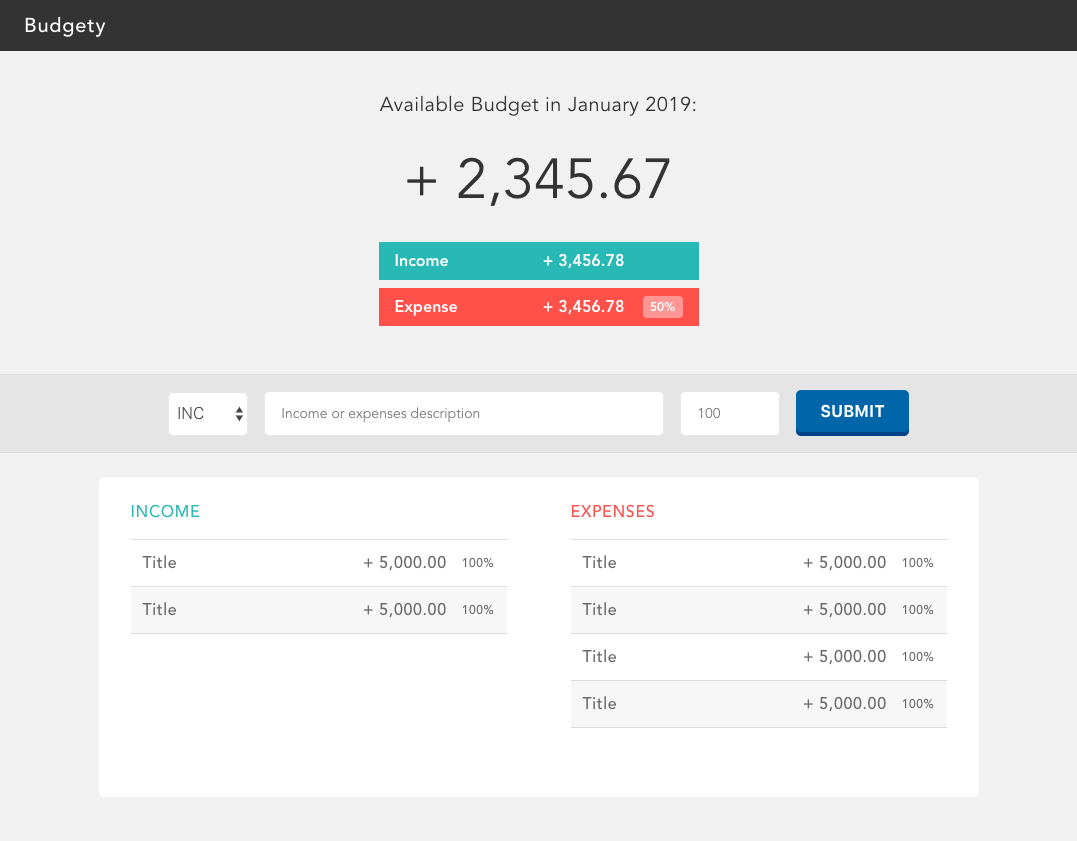
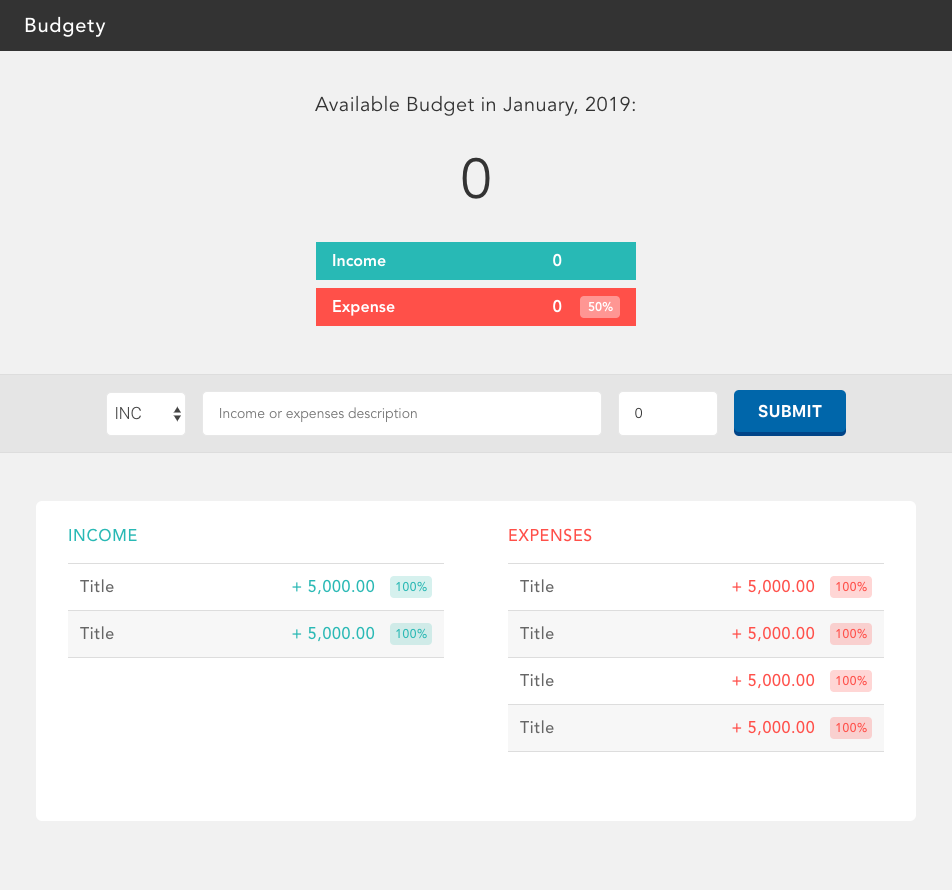
フィルタをグローバルに変更

diff --git a/docs/page7.md b/docs/page7.md
@@ -70,7 +70,6 @@ export default {
 
 > `filters`と複数形な事に気を付けてください。  
 > `Filter`は制限として`this`にアクセスする事が出来ません。  
-> グローバルなFilterも作れますが、今回は時間の都合上説明を割愛します。
 
 #### 9-2-2. Filterの使い方
 登録した`Filter`はマスタッシュまたは`v-bind`ディレクティブの値にパイプ`|`でフィルタ名をつなげる事で呼び出します。
@@ -88,8 +87,42 @@ export default {
 ```
 
 さて、Filterの使い方も分かったところでバランスの値を改善しましょう。  
-`expenses`のパーセンテージも静的なままなので、これを動的に表示出来るように合わせて処理を追加します。  
-`top.vue`を以下の様に編集してください。
+`expenses`のパーセンテージも静的なままなので、これを動的に表示出来るように合わせて処理を追加します。
+  
+`top.vue`にローカルフィルタとして登録しても良いのですが、今回のフィルタは汎用的に使えそうです。  
+そこでどのコンポーネントからも使えるようにグローバルなフィルタとして登録します。  
+
+`main.js`を開き、以下の様に編集してください。
+
+```javascript
+import Vue from 'vue'
+import App from './App.vue'
+
+Vue.config.productionTip = false
+
+Vue.filter('balanceFormatter', val => {
+  const splitVal = Math.abs(val).toFixed(2).split('.')
+  if (val < 0) {
+    return `- ${Number(splitVal[0]).toLocaleString()}.${splitVal[1]}`
+  } else if (val === 0) {
+    return '0.00'
+  } else {
+    return `+ ${Number(splitVal[0]).toLocaleString()}.${splitVal[1]}`
+  }
+})
+
+new Vue({
+  render: h => h(App),
+}).$mount('#app')
+```
+
+グローバルなフィルタを登録するには`Vue.filter()`を用います。  
+`Vue.filter()`のパラメータは以下の通りです。
+```javascript
+Vue.filter('filter-name', callback)
+```
+
+　続いて`top.vue`を以下の様に編集してください。
 
 ```vue
 <template>
@@ -128,18 +161,12 @@ export default {
             }
         },
         // フィルタを登録する
-        filters: {
-            balanceFormatter(val) {
-                const splitVal = Math.abs(val).toFixed(2).split('.')
-                if (val < 0) {
-                    return `- ${Number(splitVal[0]).toLocaleString()}.${splitVal[1]}`
-                } else if (val === 0) {
-                    return '0.00'
-                } else {
-                    return `+ ${Number(splitVal[0]).toLocaleString()}.${splitVal[1]}`
-                }
-            }
-        }
+        // 今回はグローバルに登録するのでローカルは使わない。
+        // filters: {
+        //     filterFunction() {
+        //         do something
+        //     }
+        //}
     }
 </script>
 ```

diff --git a/docs/page8.md b/docs/page8.md
@@ -12,11 +12,11 @@ Bugdetyの作業もいよいよ大詰めになってきました。
 ここは復習のために皆さんでやってみましょう！
 
 #### やる事
+- `main-content.vue`から`incomeTotal`,`expensesTotal`を受け渡す。
 - `main-content.vue`から`allItem`を`bottom.vue`に受け渡す。変数名は同じく`allItem`にしてください。  
 - `bottom.vue`の最後の`</ul>`( expensesのul )の閉じタグの下に下記のコードを挿入してください。
   
   ```vue
-      <!-- 時間の都合上このコードの説明は割愛します。 -->
       <div v-if="allItem.inc.length" style="font-size: 2rem;">
           {{ allItem.inc[0].desc }}: {{ allItem.inc[0].value }}
       </div>
@@ -26,7 +26,6 @@ Bugdetyの作業もいよいよ大詰めになってきました。
   ```text
   description: 100
   ```
-
 
 #### 答え
 ちょっと難しいなぁと思った方はこちらにサンプルコードを置いておきます。  
@@ -73,6 +72,38 @@ Bugdetyの作業もいよいよ大詰めになってきました。
     export default {
         components: {
             ListItem
+        }
+    }
+</script>
+<!-- 省略 -->
+```
+
+</div></details>
+　  
+
+フォームから入力したディスクリプションと値が、expensesのリスト最下部に表示されましたか？  
+確認できたら次に進みます。
+
+### 10-2. 更にデータを受け渡す
+しかしながら、本来リストの描画をするのは`list-item.vue`の役割であって、`bottom.vue`は動的に追加されるリストをまとめているに過ぎません。そこで更に`list-item.vue`にデータを受け渡します。
+`item-list.vue`を次のように編集してください。
+
+```vue
+<!-- /src/components/list-item.vue -->
+<template>
+    <li class="listItem">
+        <p class="listItem__title">{{ itemData.desc | balanceFormatter }}</p>
+        <p class="listItem__value">{{ itemData.value | balanceFormatter }}</p>
+        <p class="listItem__percentage">{{ percentage | balanceFormatter }}</p>
+    </li>
+</template>
+
+<script>
+    export default {
+        props: {
+            itemData: Object,
+            percentage: Number,
+            kind: String
         }
     }
 </script>

diff --git a/docs/page4.md b/docs/page4.md
@@ -97,22 +97,38 @@
         justify-content: space-between;
         padding: 12px;
     }
-    
+
     .listItem:nth-of-type(even) {
         background: #f7f7f7;
     }
-
+    
     .listItem__title {
         flex: 1 1 auto;
     }
-
-    .listItem__value {
     
-    }
-
     .listItem__percentage {
+        border-radius: 4px;
         font-size: 1.2rem;
         margin: 0 0 0 1.25em;
+        padding: 3px 4px 3px 5px;
+    }
+
+    .list__main.inc .listItem__value,
+    .list__main.inc .listItem__percentage {
+        color: #28B9B5;
+    }
+
+    .list__main.inc .listItem__percentage {
+        background: rgba(120, 210, 200, .3);
+    }
+
+    .list__main.exp .listItem__value,
+    .list__main.exp .listItem__percentage {
+        color: #FF5049;
+    }
+
+    .list__main.exp .listItem__percentage {
+        background: rgba(255, 120, 113, .3);
     }
 </style>
 ```
